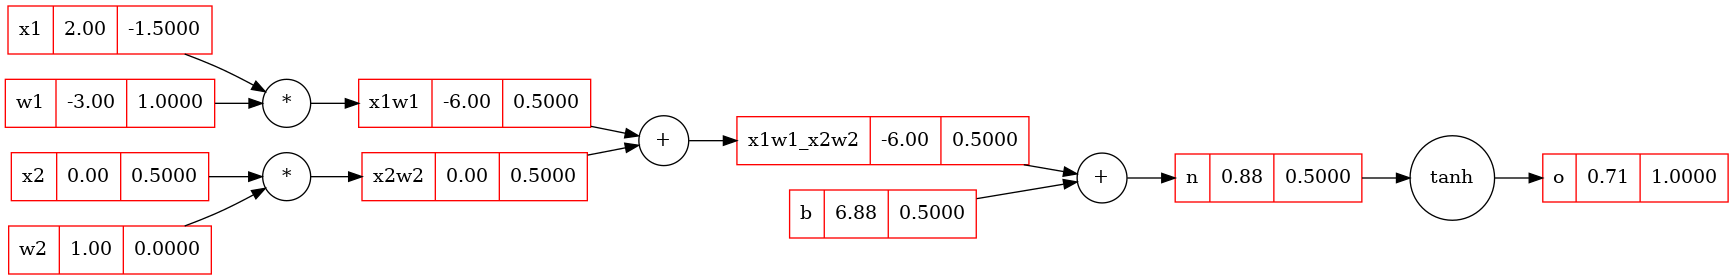
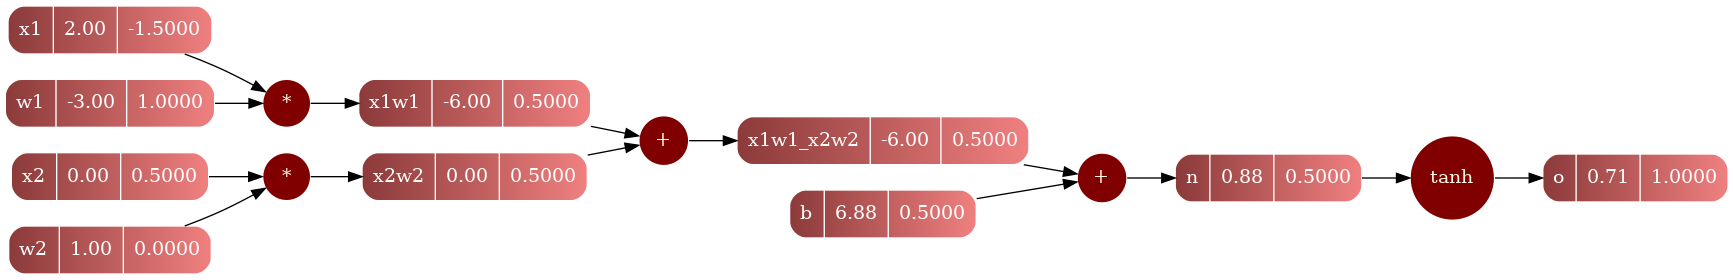
graph style updated

diff --git a/micrograd/graph_system.cc b/micrograd/graph_system.cc
@@ -43,9 +43,9 @@ public:
         ss << "node" << node_count;
         std::string node_name = ss.str();
         if (is_op) {
-            graph += "\t" + node_name + " [label=\"" + label + "\", shape=circle, " + args + "];\n";
+            graph += "\t" + node_name + " [label=\"" + label + "\",shape=circle," + args + "];\n";
         } else {
-            graph += "\t" + node_name + " [label=\"" + label + "\", shape=record, " + args + "];\n";
+            graph += "\t" + node_name + " [label=\"" + label + "\",shape=record," + args + "];\n";
         }
         node_count++;
         return node_name;
@@ -57,12 +57,15 @@ public:
 
     std::string create_from_root(const Value& v) {
         std::string label = get_label_rpr(v);
-        std::string node_name = add_node(label, "color=red");
+        std::string node_name = add_node(label, 
+            "color=white,style=\"filled,rounded\",fillcolor=\"indianred4:lightcoral\",fontcolor=white,border=3");
         std::string connection_node = node_name;
         // if op is not empty add op node
         if (v.get_op() != "") {
             std::string op_label = v.get_op();
-            std::string op_name = add_node(op_label, "color=black", true);
+            std::string op_name = add_node(op_label, 
+            "color=white,style=filled,fillcolor=\"webmaroon\",fontcolor=oldlace"
+            , true);
             add_edge(op_name, node_name);
             connection_node = op_name;
         }
